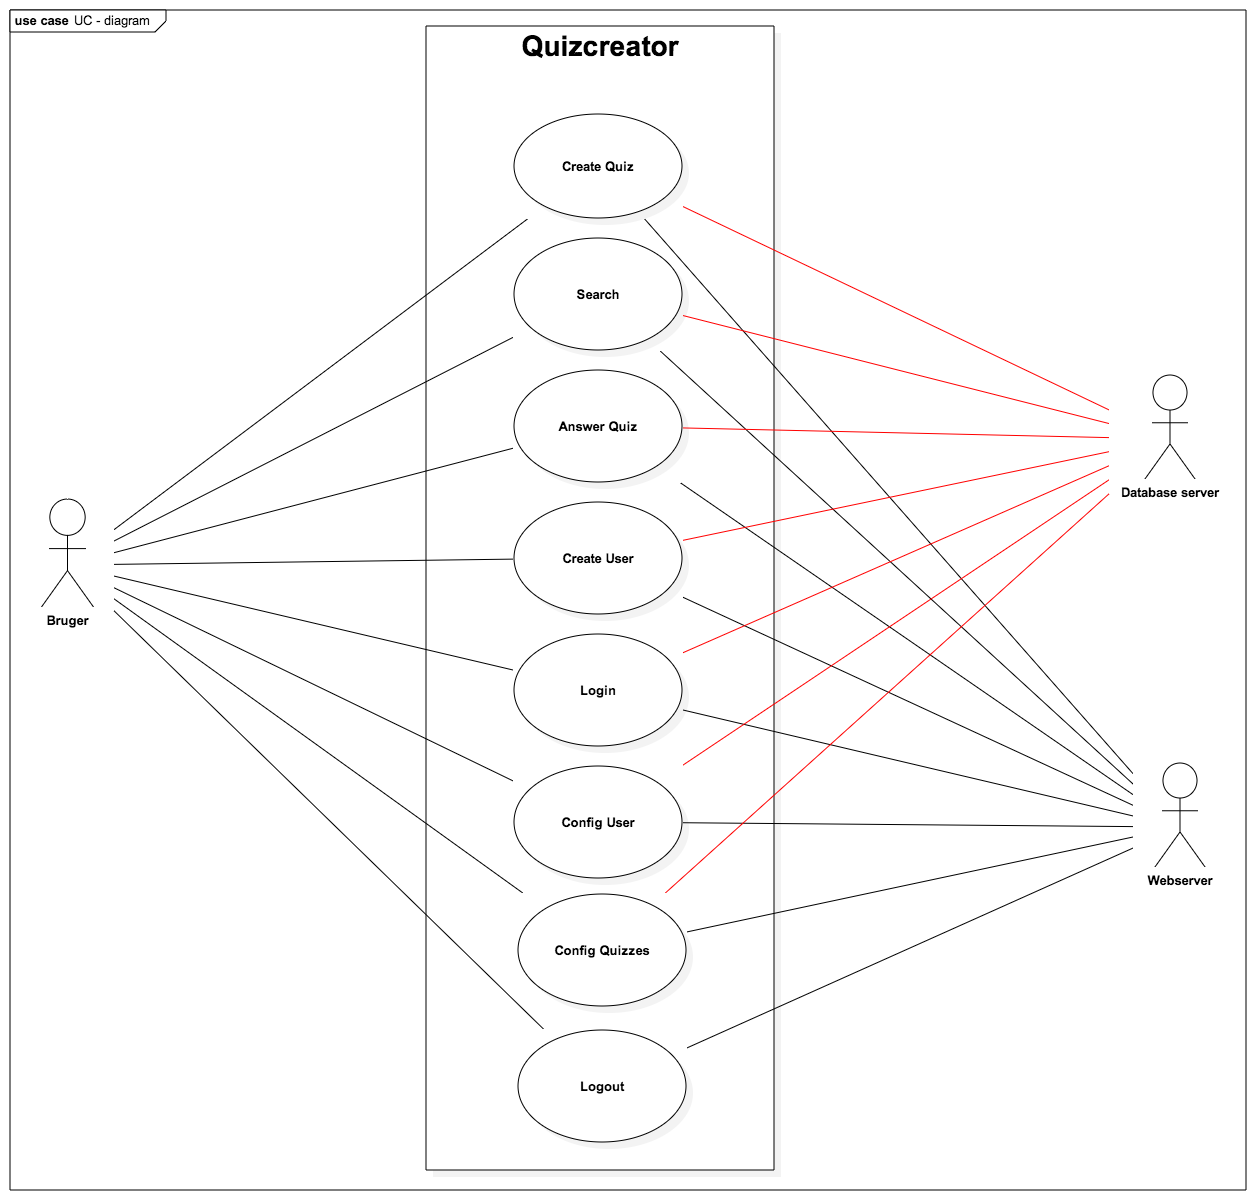
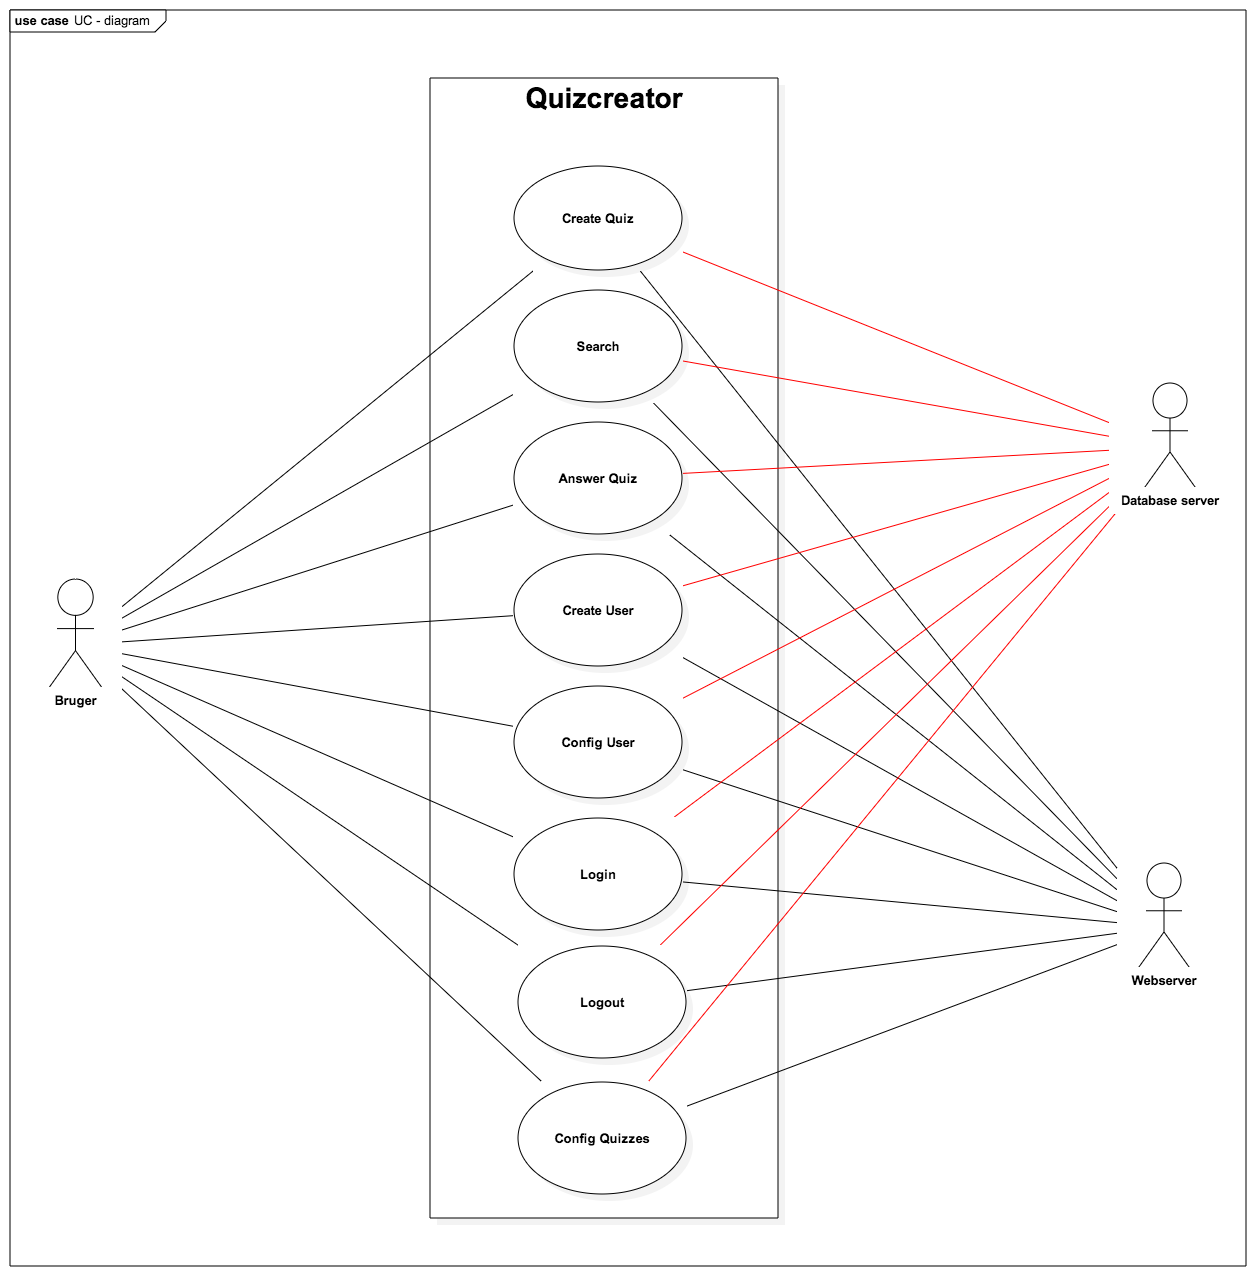
Loc - UCdiagram

diff --git a/Dokumentation/filer/kravSpec/aktorer.tex b/Dokumentation/filer/kravSpec/aktorer.tex
@@ -2,10 +2,8 @@
 
 Til applikationen Quiz Creator identificeres en række use cases samt aktører. Disses ses i \ref{fig:ucDiagram}, hvor primær aktører ses til venstre og sekundære aktører ses til højre. Følgende use case-diagrammet findes en beskrivelse over aktører, og derefter en gennemgang af hver use case. 
 
-<<<<<<< HEAD
-\figur{0.8}{kravspec/UCdiagramFinal}{Use Case-diagram med aktører}{fig:ucDiagram}
-=======
-\figur{0.8}{kravspec/UC-diagram}{Use case-diagram med aktører}{fig:ucDiagram}
+
+\figur{0.8}{kravspec/UCdiagramFinal2}{Use case-diagram med aktører}{fig:ucDiagram}
 >>>>>>> origin/master
 
 \subsection{Aktør-beskrivelse}
